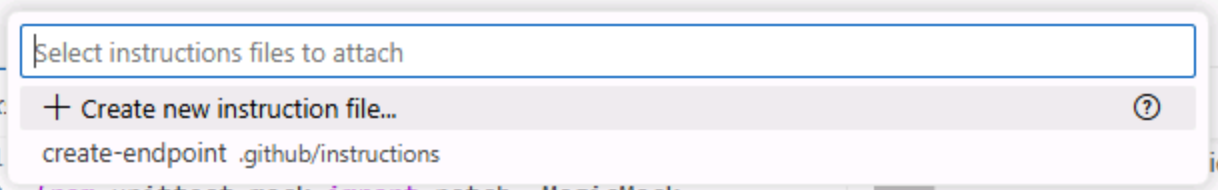
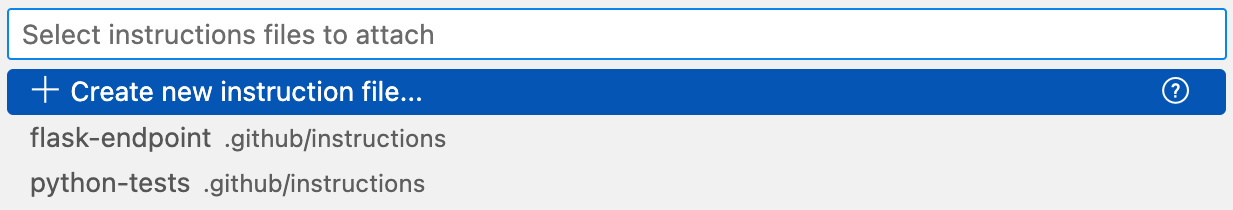
Updated instructions for instructions and new screenshots

diff --git a/docs/2-custom-instructions.md b/docs/2-custom-instructions.md
@@ -15,11 +15,9 @@ As any good dev shop, Tailspin Toys has a set of guidelines and requirements for
 - API always needs unit tests.
 - UI should be in dark mode and have a modern feel.
 - documentation should be added to code.
+- all newly created files should have a comment header describing what it does.
 
 Through the use of instruction files you'll ensure Copilot has the right information to perform the tasks in alignment with the practices highlighted.
-
-> [!IMPORTANT]
-> Instruction files are only considered by Copilot Chat at the time of this writing (including ask, edit and agent mode). Code completions are not yet supported. 
 
 ## Before you begin
 
@@ -35,65 +33,81 @@ We're going to be making some code changes, so we should follow our usual practi
 
 ## Custom instructions
 
-Custom instructions allow you to provide context and preferences to Copilot chat, so that it can better understand your coding style and requirements. This is a powerful feature that can help you steer Copilot to get more relevant suggestions and code snippets. You can specify your preferred coding conventions, libraries, and even the types of comments you like to include in your code.
+Custom instructions allow you to provide context and preferences to Copilot chat, so that it can better understand your coding style and requirements. This is a powerful feature that can help you steer Copilot to get more relevant suggestions and code snippets. You can specify your preferred coding conventions, libraries, and even the types of comments you like to include in your code. You can create instructions for your entire repository, or for specific types of files for task-level context.
+
+There are two types of instructions files:
+
+- `.github/copilot-instructions.md`, a single instruction file sent to Copilot for **every** chat prompt. This file should contain project-level information, context which is relevant for every message. This could include the tech stack being used, an overview of what's being built, or global guidance for Copilot.
+- `.instructions.md` can be created for specific tasks or file types. You can use `.instructions.md` files to provide guidelines for particular languages (like Python or TypeScript), or for tasks like creating a React component or a new instance of a repository pattern.
 
 > [!NOTE]
-> Instructions in the `.github/copilot-instructions.md` file are sent with **every** prompt to Copilot chat. As a result, it's best to keep the content focused on guidelines and information relevant to the entire project rather than specific tasks. For specific tasks you can create instruction files, which we'll cover a little later in this exercise.
+> Instruction files are only used for code generation in Copilot Chat, and not used for code completions.
 
-## Using GitHub Copilot Chat before updating custom instructions
+## Use GitHub Copilot Chat before updating custom instructions
 
-To see the impact of custom instructions, we will start by sending a prompt with the current version of the file. We'll then update the file, send the same prompt again, and note the difference.
+To see the impact of custom instructions, we will start by sending a prompt with the current version of the files. We'll then make some updates, send the same prompt again, and note the difference.
 
-1. Open the GitHub codespace if not already open. Feel free to close any open files from the previous exercise.
-2. Open **server/routes/games.py**.
-3. Open **Copilot chat** 
-4. Create a new chat session by selecting the **New Chat** button, which will remove any previous context.
+1. Open the GitHub codespace if not already open.
+2. Close any open files in your codespace from the previous exercises.
+3. Open **server/routes/publishers.py**, an empty file.
+4. Open **Copilot chat**.
+5. Create a new chat session by selecting the **New Chat** button, which will remove any previous context.
 
    ![Screenshot of the New Chat button being highlighted in the Copilot Chat panel](images/copilot-new-chat.png)
 
-5. Select **Ask** from the modes dropdown.
+6. Select **Ask** from the modes dropdown.
 
    ![Screenshot of the Ask mode being highlighted in the Copilot Chat panel](images/copilot-chat-ask.png)
 
-6. Send the following prompt to create a new endpoint to return all publishers:
+7. Send the following prompt to create a new endpoint to return all publishers:
 
    ```plaintext
-   Create a new endpoint to return a list of all publishers. It should include the name and id.
+   Create a new endpoint to return a list of all publishers. It should return the name and id for all publishers.
    ```
 
-7. Notice the generated code includes [type hints](https://docs.python.org/3/library/typing.html) because the existing code uses them. By default, Copilot uses the current file for context when creating code, and will work to follow the practices it sees in use.
-8. Notice the generated code **does not** include a docstring. Copilot is again following the patterns it sees us using, and since docstrings don't already exist it doesn't generate them.
+8. Notice the generated code includes [type hints](https://docs.python.org/3/library/typing.html) because the existing code uses them. By default, Copilot uses the current file for context when creating code, and will work to follow the practices it sees in use.
+9. Notice the generated code **is missing** either a docstring or a comment header - or both!
 
-## Adding code requirements and standards to custom instructions 
+> [!IMPORTANT]
+> As highlighted previously, GitHub Copilot and LLM tools are probabilistic, not deterministic. As a result, the exact code generated may vary, and there's even a chance it'll abide by our rules without us spelling it out! But to help with consistency, we should always document anything we want to ensure Copilot should understand about how we want our code generated.
 
-If we look at the requirements from above, we see we want to include docstrings for functions. Let's update the custom instructions file with this information to ensure the generated suggestions follow our desired practices. We'll then run the same prompt to notice the impact it had on the suggestion.
+## Add global standards to copilot-instructions.md
+
+As highlighted previously, `copilot-instructions.md` is designed to provide project-level information to Copilot. Let's ensure global coding standards are documented to improve code suggestions from Copilot chat.
 
 1. Open **.github/copilot-instructions.md**.
-2. Add the following to the bottom of the file to add the requirement for docstrings
+2. Explore the file, noting the brief description of the project and sections for `Backend`, `Frontend`, and `Code standards`. These are applicable to any interactions we'd have with Copilot.
+3. Add the following line to the bottom of the file to instruct Copilot to add comment headers to files:
 
    ```markdown
-   ## Code guidelines
-
-   - Create docstrings for Python
-   - Add JSDoc notes to JavaScript
+   - Include a comment block at the top of each new file to describe what it does
+   - Every function should have docstrings or the language equivalent
    ```
 
-3. Close the file, saving if prompted.
-4. Open **server/routes/games.py** again to ensure focus for Copilot chat is on our API.
-5. Select **New Chat** in Copilot chat to clear the buffer and start a new conversation.
+4. Select **New Chat** in Copilot chat to clear the buffer and start a new conversation.
 
    ![Screenshot of the New Chat button being highlighted in the Copilot Chat panel](images/copilot-new-chat.png)
 
+5. Return to **server/routes/publishers.py** to ensure focus is set correctly.
 6. Send the same prompt as before to create the endpoint.
 
    ```plaintext
-   Create a new endpoint to return a list of all publishers. It should include the name and id.
+   Create a new endpoint to return a list of all publishers. It should return the name and id for all publishers.
    ```
 
 > [!TIP]
 > You can cycle through previous prompts by using the up and down arrows on your keyboard.
 
-7. Notice how the newly generated code includes a docstring inside the function which resembles the following:
+7. Notice how the newly generated code includes a comment header at the top of the file which resembles the following:
+
+   ```python
+   """
+   Publisher API routes for the Tailspin Toys Crowd Funding platform.
+   This module provides endpoints to retrieve publisher information.
+   """
+   ```
+
+8. Notice how the newly generated code includes a docstring inside the function which resembles the following:
 
    ```python
    """
@@ -104,8 +118,8 @@ If we look at the requirements from above, we see we want to include docstrings 
    """
    ```
 
-8. Also note how the existing code isn't updated, but of course we could ask Copilot to perform that operation if we so desired!
-9.  Don't implement the suggested changes, as we will be doing that in the next section. But from this section, you can see how the custom instructions file has provided Copilot with the context it needs to generate code that follows the established guidelines.
+9. Also note how the existing code isn't updated, but of course we could ask Copilot to perform that operation if we so desired!
+10. Don't implement the suggested changes, as we will be doing that in the next section. But from this section, you can see how the custom instructions file has provided Copilot with the context it needs to generate code that follows the established guidelines.
 
 ## Instruction files for tasks
 
@@ -116,7 +130,8 @@ We want to create a new endpoint to list all publishers, and to follow the same 
 1. Open **.github/instructions/create-endpoint.instructions.md**.
 2. Review the following entries inside the instruction file:
 
-   - An overview of requirements, including that tests must be created, mock objects to be used, and endpoints are created in Flask using blueprints.
+   - An overview of requirements, including that tests must be created, and endpoints are created in Flask using blueprints.
+   - Link to another [instructions file focused on test generation](../.github/instructions/python-tests.instructions.md)
    - Links to two existing files which follow the patterns we want - both the games blueprint and tests. Notice how these are setup as normal markdown links, allowing an instruction file to incorporate additional files for context.
 
 3. Open **server/app.py**.
@@ -126,33 +141,37 @@ We want to create a new endpoint to list all publishers, and to follow the same 
    ![Screenshot of the Edit mode being highlighted in the Copilot Chat panel](images/copilot-edits.png)
 
 6. Select the **Add Context** button to open the context dialog
-7. If prompted to allow the codespace to see text and images copied to the clipboard, press **Allow**.
+7. If prompted to allow the codespace to see text and images copied to the clipboard, select **Allow**.
 8. Select **Instructions** from the dropdown at the top of your codespace.
 
 > [!TIP]
 > If the list of options is long, you can type **instructions** to filter to the Instructions option then select **Instructions**.
 
-9.  Select **create-endpoint .github/instructions** to add the instruction file to the context.
+9.  Select **flask-endpoint .github/instructions** to add the instruction file to the context.
 
    ![Screenshot showing the instruction file being added into Copilot Chat](images/copilot-add-instructions-file.png)
 
 10. Send the same prompt as before to generate the desired endpoint:
 
    ```plaintext
-   Create a new endpoint to return a list of all publishers. It should include the name and id.
+   Create a new endpoint to return a list of all publishers. It should return the name and id for all publishers.
    ```
 
 11. Copilot generates the files. Notice how it generates updates across multiple files, like **games.py** and **test_games.py**.
-12. After reviewing the code, select **Keep** and **Done** in Copilot Chat to accept the changes.
-13. Open a terminal window by selecting <kbd>Ctl</kbd>+<kbd>\`</kbd>.
-14. Run the tests by running the script with the following command:
+12. Note the **References** section, and how **games.py**, **test_games.py**, and **python-tests.instructions.md** were all included in call to Copilot.
+
+   ![Screenshot of the references section, showing the included files of games.py, test_games.py, and python-tests.instructions.md](./images/copilot-instructions-references.png)
+
+13. After reviewing the code, select **Keep** and **Done** in Copilot Chat to accept the changes.
+14. Open a terminal window by selecting <kbd>Ctl</kbd>+<kbd>\`</kbd>.
+15. Run the tests by running the script with the following command:
 
    ```sh
    ./scripts/run-server-tests.sh
    ```
 
-15. Ensure all tests pass. Re-prompt Copilot Chat as needed to ensure the code is correct.
-16. Once correct, and all tests pass, open the **Source Control** panel on the left of the Codespace and review the changes made by Copilot.
+16. Ensure all tests pass. Re-prompt Copilot Chat as needed to ensure the code is correct.
+17. Once correct, and all tests pass, open the **Source Control** panel on the left of the Codespace and review the changes made by Copilot.
 18. Stage the changes by selecting the **+** icon in the **Source Control** panel.
 19. Generate a commit message using the **Sparkle** button.
 
